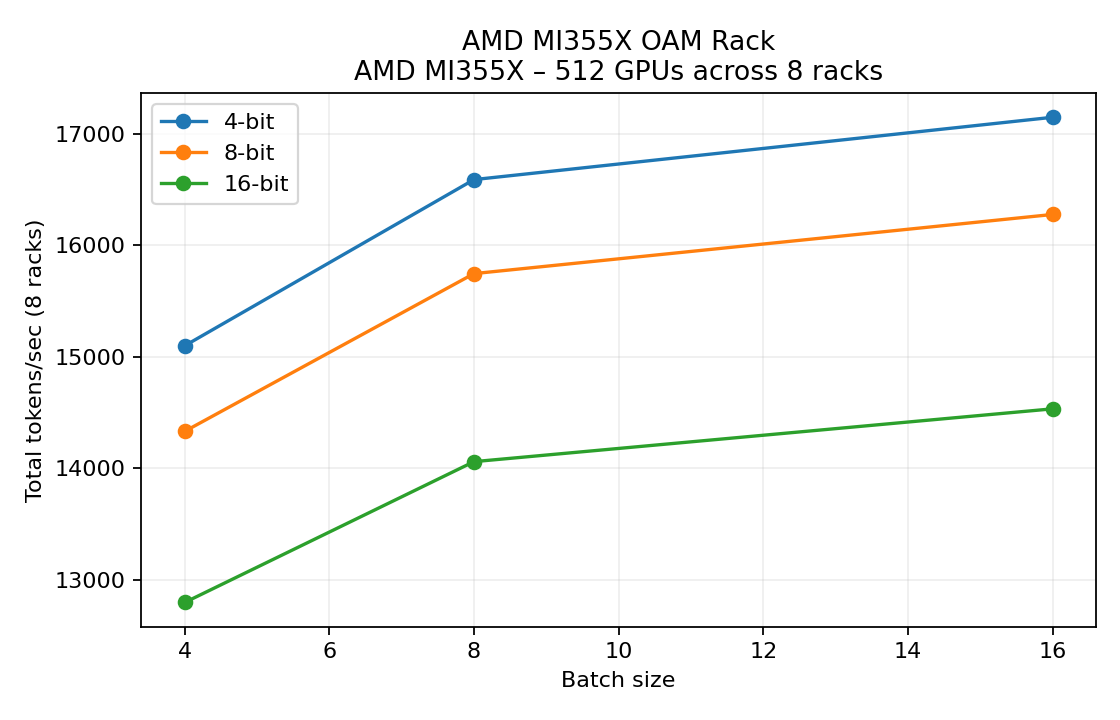
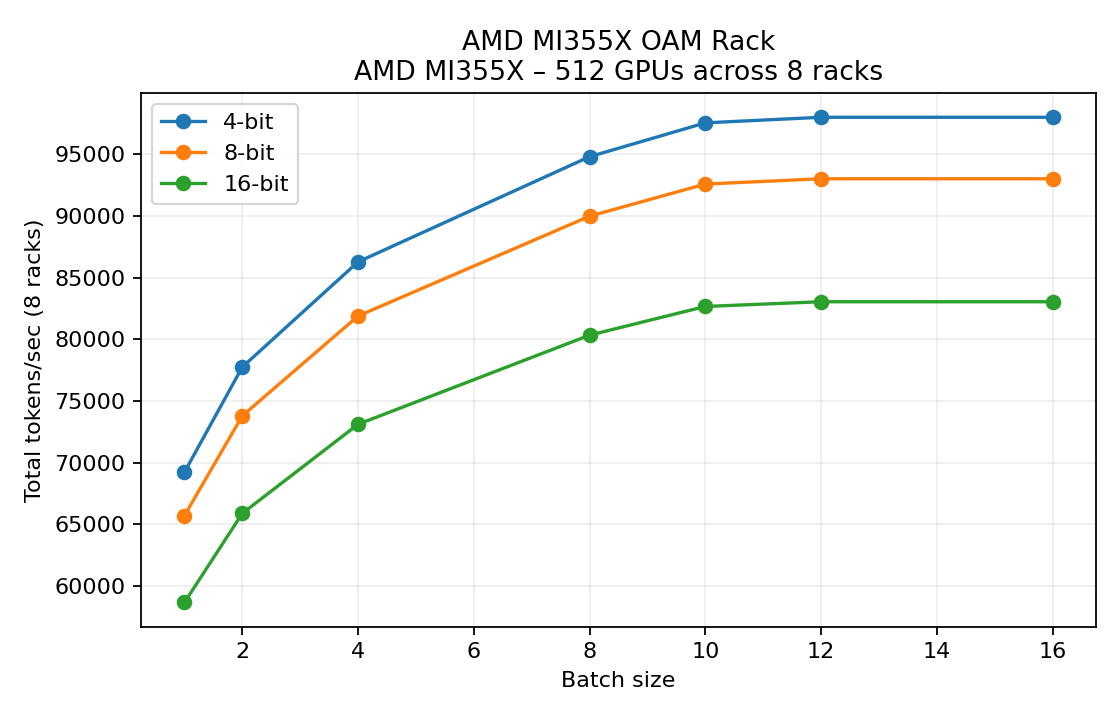
moe added

diff --git a/llm_cluster_simulator.py b/llm_cluster_simulator.py
@@ -69,15 +69,36 @@ class ModelConfig:
     num_heads: int
     context_length: int       # prompt + cached tokens
     generation_window: int    # planned decode horizon per request
+    experts_per_layer: int = 0
+    active_experts: int = 0
+    expert_param_fraction: float = 0.0
+    shared_param_fraction: float = 1.0
+    moe_dispatch_factor: float = 2.0  # out + back traffic multiplier per token
 
     @property
     def flops_per_token(self) -> float:
-        # 2 * params gives a decent dense-transformer decode estimate.
-        return 2.0 * self.num_params
+        return 2.0 * self.active_params
 
     @property
     def total_cached_tokens(self) -> int:
         return self.context_length + self.generation_window
+
+    @property
+    def is_moe(self) -> bool:
+        return (
+            self.experts_per_layer > 0
+            and self.active_experts > 0
+            and self.expert_param_fraction > 0
+        )
+
+    @property
+    def active_params(self) -> float:
+        if not self.is_moe:
+            return self.num_params
+        shared = self.num_params * self.shared_param_fraction
+        expert_pool = self.num_params * self.expert_param_fraction
+        expert_active = expert_pool * (self.active_experts / self.experts_per_layer)
+        return shared + expert_active
 
 
 GPU_PRESETS: Dict[str, GPUConfig] = {
@@ -160,13 +181,18 @@ QUANT_PRESETS: Dict[int, QuantConfig] = {
 
 
 MODEL = ModelConfig(
-    name="Qwen3-235B",
+    name="Qwen3-235B-A22B",
     num_params=235e9,
-    num_layers=120,
-    hidden_size=12288,
-    num_heads=96,
-    context_length=4096, # up to 256K-token long-context understanding
+    num_layers=94,
+    hidden_size=1536,
+    num_heads=64,
+    context_length=4096,  # up to 256K-token long-context understanding
     generation_window=1024,
+    experts_per_layer=128,
+    active_experts=8,
+    expert_param_fraction=0.88,   # majority of params live in experts
+    shared_param_fraction=0.12,   # router + shared FFNs + attention
+    moe_dispatch_factor=2.0,      # send + gather
 )
 
 
@@ -189,10 +215,6 @@ def kv_bytes_per_token(model: ModelConfig, quant: QuantConfig) -> float:
     return 2.0 * model.num_layers * model.hidden_size * quant.kv_bytes_per_elem
 
 
-# Tensor Parallelism splitting parameters of each layer across multiple GPUs 
-# (e.g., splitting the attention/MLP matrices). 
-# After each GPU computes its partial result, they must synchronize (e.g., by all-reduce), 
-# which causes communication overhead.
 def tensor_parallel_comm_bytes(model: ModelConfig, tp: int, pp: int) -> float:
     if tp <= 1:
         return 0.0
@@ -213,17 +235,39 @@ def pipeline_comm_bytes(model: ModelConfig, pp: int) -> float:
     return activation_size * boundaries
 
 
+def moe_dispatch_bytes(model: ModelConfig) -> float:
+    if not model.is_moe:
+        return 0.0
+    bytes_per_activation = 2.0  # assume fp16 routed activations
+    return (
+        model.hidden_size
+        * bytes_per_activation
+        * model.active_experts
+        * model.moe_dispatch_factor
+    )
+
+
 def fits_memory(
     gpu: GPUConfig,
     model: ModelConfig,
     quant: QuantConfig,
     tp: int,
     pp: int,
+    ep: int,
     batch_size: int,
     safety_margin: float = 0.15,
 ) -> Tuple[bool, float, Dict[str, float]]:
     total_weights = model.num_params * quant.bytes_per_param
-    weights_per_gpu = total_weights / (tp * pp)
+    base_shards = tp * pp
+
+    if model.is_moe:
+        shared_weights = total_weights * model.shared_param_fraction
+        expert_weights = total_weights * model.expert_param_fraction
+        weights_per_gpu = (shared_weights / base_shards) + (
+            expert_weights / (base_shards * ep)
+        )
+    else:
+        weights_per_gpu = total_weights / (base_shards)
 
     kv_bytes_token = kv_bytes_per_token(model, quant)
     kv_per_gpu_per_token = kv_bytes_token / (tp * pp)
@@ -255,18 +299,25 @@ def evaluate_plan(
     batch_size: int,
     tp: int,
     pp: int,
+    ep: int,
     racks: int,
 ) -> Optional[Dict[str, float]]:
     if model.num_layers % pp != 0 or model.num_heads % tp != 0:
         return None
+    if model.is_moe and ep <= 0:
+        return None
+    if model.is_moe and model.experts_per_layer % ep != 0:
+        return None
 
     gpu = GPU_PRESETS[rack.gpu_key]
     total_gpus = racks * rack.servers_per_rack * rack.gpus_per_server
-    gpus_per_instance = tp * pp
+    gpus_per_instance = tp * pp * max(ep, 1)
     if gpus_per_instance > total_gpus:
         return None
 
-    mem_ok, mem_usage, mem_breakdown = fits_memory(gpu, model, quant, tp, pp, batch_size)
+    mem_ok, mem_usage, mem_breakdown = fits_memory(
+        gpu, model, quant, tp, pp, ep, batch_size
+    )
     if not mem_ok:
         return None
 
@@ -302,6 +353,8 @@ def evaluate_plan(
             network_bytes["inter_rack"] += tp_comm
 
     pp_comm = pipeline_comm_bytes(model, pp)
+    moe_comm = 0.0
+
     if pp_comm > 0.0:
         servers_per_stage = math.ceil(tp / rack.gpus_per_server)
         servers_needed = servers_per_stage * pp
@@ -315,10 +368,21 @@ def evaluate_plan(
         else:
             network_bytes["inter_rack"] += pp_comm
 
+    if model.is_moe and ep > 1:
+        moe_comm = moe_dispatch_bytes(model)
+        ep_servers = math.ceil(ep / rack.gpus_per_server)
+        ep_racks = math.ceil(ep_servers / rack.servers_per_rack)
+        if ep_servers <= 1:
+            network_bytes["intra"] += moe_comm
+        elif ep_racks <= 1:
+            network_bytes["inter_server"] += moe_comm
+        else:
+            network_bytes["inter_rack"] += moe_comm
+
     # Force inter-rack comm if the instance cannot fit in a single rack
     gpus_per_rack = rack.gpus_per_server * rack.servers_per_rack
     if gpus_per_instance > gpus_per_rack:
-        network_bytes["inter_rack"] += tp_comm + pp_comm
+        network_bytes["inter_rack"] += tp_comm + pp_comm + moe_comm
 
     comm_limits: List[float] = []
     if network_bytes["intra"] > 0:
@@ -355,6 +419,7 @@ def evaluate_plan(
         "limit": limiting,
         "instances": instances_possible,
         "gpus_per_instance": gpus_per_instance,
+        "ep": ep,
         "tp": tp,
         "pp": pp,
         "memory_used": mem_usage,
@@ -380,6 +445,7 @@ def simulate_rack(
     quant_bits: Iterable[int],
     tp_candidates: Iterable[int],
     pp_candidates: Iterable[int],
+    ep_candidates: Iterable[int],
 ) -> Dict[int, Dict[int, Dict[str, float]]]:
     results: Dict[int, Dict[int, Dict[str, float]]] = {}
     for bits in quant_bits:
@@ -393,11 +459,13 @@ def simulate_rack(
                 for pp in pp_candidates:
                     if model.num_layers % pp != 0:
                         continue
-                    plan = evaluate_plan(rack, quant, model, batch, tp, pp, racks)
-                    if not plan:
-                        continue
-                    if not best or plan["total_tps"] > best["total_tps"]:
-                        best = plan
+                    eps = ep_candidates if model.is_moe else [1]
+                    for ep in eps:
+                        plan = evaluate_plan(rack, quant, model, batch, tp, pp, ep, racks)
+                        if not plan:
+                            continue
+                        if not best or plan["total_tps"] > best["total_tps"]:
+                            best = plan
             if best:
                 results[bits][batch] = best
     return results
@@ -480,7 +548,7 @@ def print_summary(rack: RackPreset, sim_results: Dict[int, Dict[int, Dict[str, f
         print(f"Notes: {rack.notes}")
 
     header = (
-        "  Batch | Quant | Tok/GPU(avg) | Inst TPS | Tot TPS | #Inst | GPUs/Inst | TPxPP | "
+        "  Batch | Quant | Tok/GPU(avg) | Inst TPS | Tot TPS | #Inst | GPUs/Inst | TPxPPxEP | "
         "Mem/GPU (GB) | Limit | Fabric Load per Inst (GB/s intra/inter/rack) | Bounds tok/GPU(avg) (comp/hbm/comm)"
     )
     print(header)
@@ -499,7 +567,7 @@ def print_summary(rack: RackPreset, sim_results: Dict[int, Dict[int, Dict[str, f
                 f"  {batch:5d} | {bits:5d} | {plan['tokens_per_gpu']:13.2f} | "
                 f"{plan['instance_tps']:10.2f} | {plan['total_tps']:10.1f} | "
                 f"{plan['instances']:5d} | {plan['gpus_per_instance']:9d} | "
-                f"{plan['tp']}x{plan['pp']} | {mem_gb:11.1f} | "
+                f"{plan['tp']}x{plan['pp']}x{plan['ep']} | {mem_gb:11.1f} | "
                 f"{plan['limit']:>6} | {intra_gbs:5.1f}/{inter_gbs:5.1f}/{rack_gbs:5.1f} | "
                 f"{format_bound(plan['compute_bound_per_gpu'])}/"
                 f"{format_bound(plan['hbm_bound_per_gpu'])}/"
@@ -510,10 +578,11 @@ def print_summary(rack: RackPreset, sim_results: Dict[int, Dict[int, Dict[str, f
 
 def main() -> None:
     racks = 8
-    batch_sizes = [4, 8, 16]
+    batch_sizes = [1, 2, 4, 8, 10, 12, 16]
     quant_bits = [4, 8, 16]
     tp_candidates = [1, 2, 4, 8, 12, 16, 24, 32]
     pp_candidates = [1, 2, 3, 4, 6, 8]
+    ep_candidates = [1, 2, 4, 8]
 
     print(f"Model: {MODEL.name} ({MODEL.num_params/1e9:.0f}B params)")
     print(f"Layers: {MODEL.num_layers}, hidden size: {MODEL.hidden_size}, heads: {MODEL.num_heads}")
@@ -533,6 +602,7 @@ def main() -> None:
             quant_bits=quant_bits,
             tp_candidates=tp_candidates,
             pp_candidates=pp_candidates,
+            ep_candidates=ep_candidates,
         )
         print_summary(rack, sim_results, racks)
         plot_path = plot_results(rack, sim_results, racks, plot_dir)

diff --git a/README.md b/README.md
@@ -48,14 +48,16 @@ puts on intra-server, inter-server, and inter-rack fabrics.
 Key constants live near the top of `llm_cluster_simulator.py`.
 
 - `MODEL`: update layer count, hidden size, or cached tokens to reflect your
-  architecture.
+  architecture. For Qwen3 MoE tuning, edit `experts_per_layer`, `active_experts`,
+  `expert_param_fraction`, and `shared_param_fraction` to match the release notes
+  you have on hand.
 - `QUANT_PRESETS`: adjust weight size, sustained compute scaling, or KV element
   size for different quantisation schemes.
 - `RACK_PRESETS`: add or tweak a rack by editing GPU counts and interconnect
   bandwidths (bytes/sec).
- - `GPU_PRESETS`: change sustained FLOPs or HBM bandwidth to match benchmark
+- `GPU_PRESETS`: change sustained FLOPs or HBM bandwidth to match benchmark
   data.
-- `batch_sizes`, `quant_bits`, `tp_candidates`, `pp_candidates`: the search
+- `batch_sizes`, `quant_bits`, `tp_candidates`, `pp_candidates`, `ep_candidates`:
   space swept during auto-tuning.
 
 All bandwidth figures are “effective” sustained numbers; swap in values that
@@ -83,21 +85,22 @@ match your kernels, NCCL configs, and traffic patterns.
   InfiniBand HDR/NDR optics). Enter the sustained per-direction bandwidth you
   observe with NCCL collective microbenchmarks.
 
-Note:
-  - The [published data](https://newsletter.semianalysis.com/p/amd-advancing-ai-mi350x-and-mi400-ualoe72-mi500-ual256?utm_source=publication-search) 2,500 TFLOPs (GB200) and 2,300 TFLOPs (MI300-class) are the peak marketing numbers: they assume
-  perfectly-tiled matrix multiplies in FP8/BF16, full SM occupancy, no communication, and all of the power budget devoted to
-  math. Two things tank that figure for real LLM decoding:
+### Qwen3 mixture-of-experts assumptions
 
-  - Decode is memory- and latency-bound. Each new token touches the whole KV cache, does small GEMVs, and waits on
-    collectives. You rarely exceed 20–30 % FP unit utilisation, so the sustained math rate falls to a few‑dozen TFLOPs even
-    on top-tier parts.
-  - End-to-end utilisation losses. Scheduling, quant kernels, tensor/pipeline parallel collectives, and micro-batching shave
-    off another 10–30 %. The numbers in the simulator (24 TFLOPs for GB200, 11.5 TFLOPs for MI300X, 14.5 TFLOPs for MI355X)
-    mirror what vendors and open benchmarks report for decode throughput, not HPC matmul runs.
-
-  - If you have better telemetry (e.g. nsys/ncu traces or TensorRT‑LLM benchmarks on your stack), just drop the measured
-  sustained FLOP rates into GPU_PRESETS and the simulator will rescale automatically; the defaults are there so the model
-  produces realistic tokens/sec out of the box rather than theoretical peaks.
+- Default settings assume a top-8-of-64 MoE layout (mirroring Qwen3’s release
+  collateral). Adjust `experts_per_layer` and `active_experts` if you have an
+  updated architecture card.
+- `expert_param_fraction` and `shared_param_fraction` split the 235 B parameters
+  into expert FFNs (≈88 %) and shared weights/router/attention (≈12 %). Tweak
+  these ratios if your checkpoint skews differently.
+- Expert traffic is modelled as an all-to-all exchange of FP16 activations with
+  a round-trip multiplier (`moe_dispatch_factor`, default 2×) to capture send +
+  gather cost. Increase it if you measure higher overhead due to packing or
+  capacity drops.
+- Expert-parallel degrees explored in `ep_candidates` multiply the tensor ×
+  pipeline mesh. The simulator assumes shared weights are replicated across EP
+  groups while expert weights shard, matching how DeepSpeed/TensorRT-LLM deploy
+  MoE inference today.
 
 
 ## Interpreting the results
@@ -120,6 +123,46 @@ Because the simulator assumes steady-state decode, prefill/first-token latency
 is not modelled. Prefill-heavy workloads typically shift bottlenecks toward
 HBM or interconnect; extend the simulator if you need that view.
 
+
+
+#### Note 1:
+The [published data](https://newsletter.semianalysis.com/p/amd-advancing-ai-mi350x-and-mi400-ualoe72-mi500-ual256?utm_source=publication-search) 2,500 TFLOPs (GB200) and 2,300 TFLOPs (MI300-class) are the peak marketing numbers: they assume
+  perfectly-tiled matrix multiplies in FP8/BF16, full SM occupancy, no communication, and all of the power budget devoted to
+  math. Two things tank that figure for real LLM decoding:
+
+  - Decode is memory- and latency-bound. Each new token touches the whole KV cache, does small GEMVs, and waits on
+    collectives. You rarely exceed 20–30 % FP unit utilisation, so the sustained math rate falls to a few‑dozen TFLOPs even
+    on top-tier parts.
+  - End-to-end utilisation losses. Scheduling, quant kernels, tensor/pipeline parallel collectives, and micro-batching shave
+    off another 10–30 %. The numbers in the simulator (24 TFLOPs for GB200, 11.5 TFLOPs for MI300X, 14.5 TFLOPs for MI355X)
+    mirror what vendors and open benchmarks report for decode throughput, not HPC matmul runs.
+
+  If you have better telemetry (e.g. nsys/ncu traces or TensorRT‑LLM benchmarks on your stack), just drop the measured
+  sustained FLOP rates into GPU_PRESETS and the simulator will rescale automatically; the defaults are there so the model
+  produces realistic tokens/sec out of the box rather than theoretical peaks.
+
+#### Note 2:
+
+The “compute max bound” column is only a first‑order ceiling that we derive from two inputs:
+
+  `compute_bound_per_gpu ≈ (sustained_flops · compute_scale) / flops_per_token`
+
+  where sustained_flops is the decode‑mode FLOPs/s you enter in GPU_PRESETS, compute_scale is the utilisation bump you assign to a quant mode, and flops_per_token
+  is computed as 2 × active_params. For Qwen3 we approximate the active parameters as the shared weights plus the slice of experts that fire (expert_param_fraction ×
+  active_experts / experts_per_layer). That whole stack is an approximation. Whenever you see the reported tok/GPU(avg) edge above that bound, it simply means one (or
+  more) of the inputs is conservative relative to what your kernels are actually doing. Common reasons:
+
+  - Sustained FLOPs are higher than the default – e.g. you have better scheduling, fused kernels, or FP8 pipelines than the 11–24 TFLOPs figures we baked in from
+    vendor whitepapers. Plug your measured decode throughput (from ncu/nsys, TensorRT‑LLM, etc.) into GPU_PRESETS.
+  - MoE sparsity is stronger than our guess – if fewer experts fire, or the shared/expert fraction in your checkpoint differs from the 12 % / 88 % split we assumed,
+    the true FLOPs/token drops, so more tokens/s can fit under the same FLOP budget. Adjust expert_param_fraction, shared_param_fraction, and active_experts.
+  - Quantisation uplift – our compute_scale factors (1.12 for 8‑bit, 1.18 for 4‑bit) are averages. If your INT4 kernels deliver a larger boost, the GPU can sustain
+    more FLOPs than we account for.
+
+  In short, the ceiling is a modelling aid, not a hard limit enforced by physics. If your observed tok/GPU goes past it, update the sustained FLOP numbers or the MoE
+  fractions to match your telemetry; the simulator will rescale accordingly.
+
+
 ## Extending
 
 - Add prefill modelling by sizing activation footprints and read/write bursts.
@@ -134,15 +177,17 @@ HBM or interconnect; extend the simulator if you need that view.
    capabilities, server topology, and interconnect bandwidths. Quantisation
    presets determine weight size, sustained compute scaling, and KV precision.
 2. **Search space sweep** – For every batch size and quant setting we iterate
-   tensor-parallel (`tp_candidates`) and pipeline-parallel (`pp_candidates`)
-   degrees that evenly divide heads and layers.
+   tensor-parallel (`tp_candidates`), pipeline-parallel (`pp_candidates`), and
+   expert-parallel (`ep_candidates`) degrees that evenly divide heads, layers,
+   and expert shards respectively.
 3. **Feasibility checks** – Each `(tp, pp)` pair must fit within rack GPU
    counts and HBM capacity. Memory usage covers sharded weights, KV cache for
    cached tokens, plus a small buffer to guard against fragmentation.
 4. **Throughput estimation** – The simulator computes three ceilings per
-   instance: compute (sustained FLOPs), HBM (KV read bandwidth), and
-   communication (per-level interconnect loads). Batch size influences kernel
-   efficiency via an empirical scaling curve.
+   instance: compute (sustained FLOPs, factoring active experts), HBM (KV read
+   bandwidth), and communication (tensor/pipeline collectives plus MoE
+   dispatch). Batch size influences kernel efficiency via an empirical scaling
+   curve.
 5. **Instance aggregation** – The minimum of the three ceilings becomes the
    instance tokens/sec. We multiply by the number of instances that fit in
    8 racks to get rack-wide throughput and record which subsystem bottlenecks.
